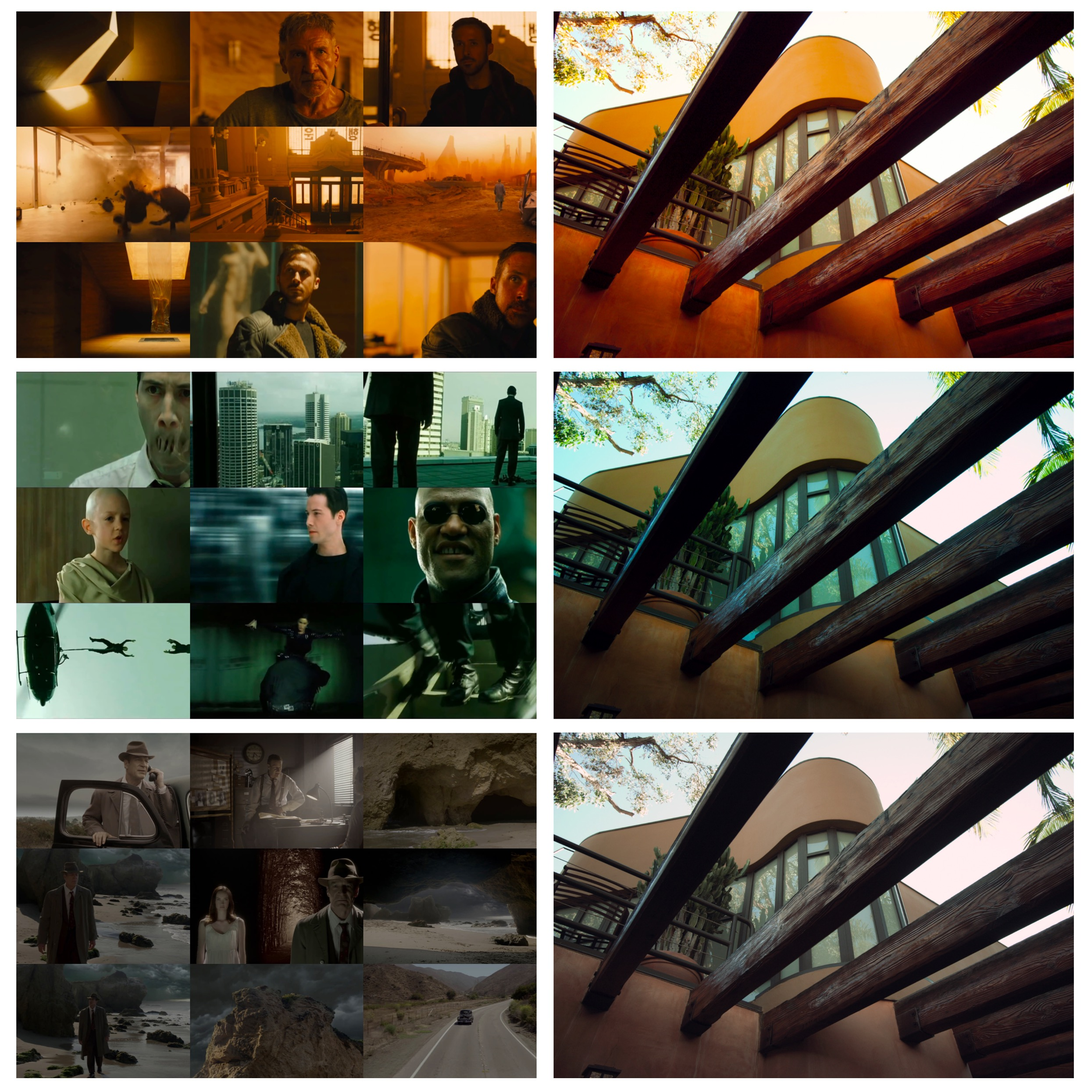
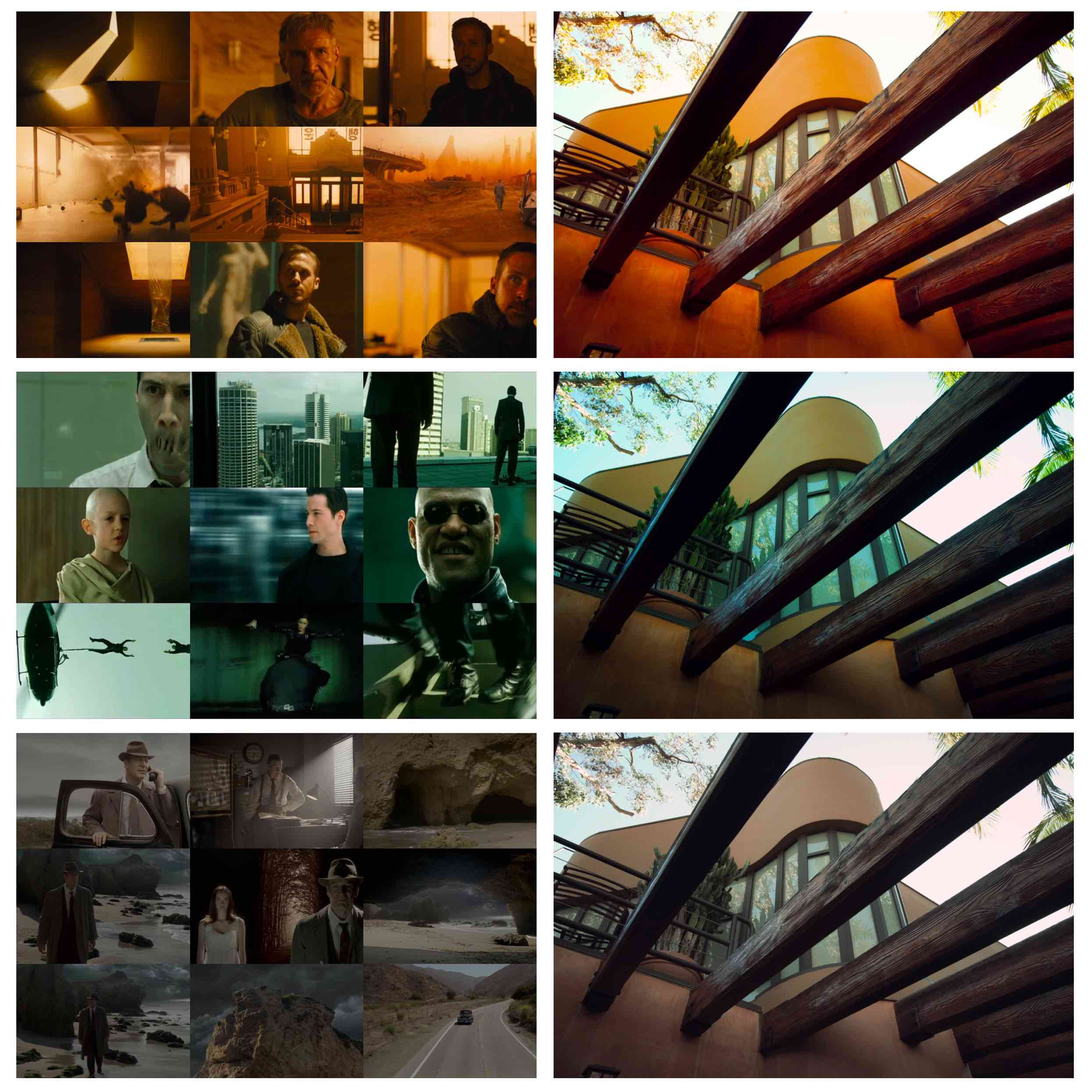
update projects compress photos

diff --git a/index.html b/index.html
@@ -45,9 +45,9 @@
         </h3>
       </ul>
       </p>
-      <span style="color:darkkhaki">News [03/2023]: Our work "DiffusionRig: Learning Personalized Priors for Facial
+      <!-- <span style="color:darkkhaki">News [03/2023]: Our work "DiffusionRig: Learning Personalized Priors for Facial
         Appearance Editing" has been accepted to CVPR 2023!
-        See y'all in Vancouver!</span>
+        See y'all in Vancouver!</span> -->
     </header>
 
     <!-- Nav -->
@@ -112,8 +112,20 @@
         </header>
         <ul class="features">
           <li>
+            <span class="image fit"><img src="images/diffusionrig_teaser.jpg" alt="" /></span>
+            <h3><b>DiffusionRig: Learning Personalized Priors for Facial Appearance Editing</b>&#8205;</h3>
+            <p>Z. Ding, C. Zhang, Z. Xia, <b>L. Jebe</b>, Z. Tu, X. Zhang</br>
+              <b><i>CVPR 2023</i></b>
+            </p>
+            <p>
+              <a href="https://diffusionrig.github.io/" target="_blank" rel="noopener noreferrer">project page</a>
+              &nbsp;| &nbsp;<a href="https://arxiv.org/abs/2304.06711" target="_blank"
+                rel="noopener noreferrer">arXiv</a>
+            </p>
+          </li>
+          <li>
             <span class="image fit"><img src="images/NeuralPhotoFinishing.jpg" alt="" /></span>
-            <h3><b>Neural Photo-Finishing</b></br>&#8205;</h3>
+            <h3><b></br>Neural Photo-Finishing</b></br>&#8205;</h3>
             <p>E. Tseng, Y. Zhang, <b>L. Jebe</b>, C. Zhang, Z. Xia, Y. Fan, F. Heide, J. Chen</br>
               <b><i>SIGGRAPH Asia 2022</i></b>
             </p>
@@ -126,7 +138,7 @@
           </li>
           <li>
             <span class="image fit"><img src="images/nlr_square.jpg" alt="" /></span>
-            <h3><b>Neural Lumigraph Rendering</b></br>&#8205;</h3>
+            <h3><b></br>Neural Lumigraph Rendering</b></br>&#8205;</h3>
             <p>P. Kellnhofer, <b>L. Jebe</b>, A. Jones, R. Spicer, K. Pulli, G. Wetzstein</br>
               <b><i>CVPR 2021 (best paper candidate)</i></b>
             </p>
@@ -136,18 +148,6 @@
                 target="_blank" rel="noopener noreferrer">arXiv</a> &nbsp;| &nbsp;<a
                 href="https://drive.google.com/file/d/1BBpIfrqwZNYmG1TiFljlCnwsmL2OUxNT/view?usp=sharing"
                 target="_blank" rel="noopener noreferrer">dataset</a>
-            </p>
-          </li>
-          <li>
-            <span class="image fit"><img src="images/ar2_square.jpg" alt="" /></span>
-            <h3><b>Augmented Reality in the Operating Room</b></h3>
-            <p>Registering surgical microscope images with a CT scan. In collaboration with <a
-                href="https://web.stanford.edu/~bgirod/" target="_blank" rel="noopener noreferrer"><b>Bernd
-                  Girod</b></a> and <a href="https://profiles.stanford.edu/nikolas-blevins" target="_blank"
-                rel="noopener noreferrer"><b>Nikolas Blevins</b></a>
-            </p>
-            <p><a href="assets/AR_in_the_OR.pptx" download target="_blank" rel="noopener noreferrer">pptx</a> &nbsp;|
-              &nbsp;<a href="assets/AR_in_the_OR_poster.pdf" target="_blank" rel="noopener noreferrer">poster</a>
             </p>
           </li>
         </ul>
@@ -166,13 +166,16 @@
         </header>
         <div class="box alt">
           <div class="row gtr-uniform">
-            <div class="col-12"><span class="image fit"><img src="images/gallery/waves_narrow.jpg" alt="" /></span>
+            <div class="col-12"><span class="image fit"><img src="images/gallery/waves_narrow_compressed.jpg"
+                  alt="" /></span>
             </div>
-            <div class="col-4"><span class="image fit"><img src="images/gallery/lars_lucy3_square.jpg" alt="" /></span>
+            <div class="col-4"><span class="image fit"><img src="images/gallery/lars_lucy3_square_compressed.jpg"
+                  alt="" /></span>
             </div>
             <div class="col-4"><span class="image fit"><img src="images/gallery/kitesurfing_square.jpg" alt="" /></span>
             </div>
-            <div class="col-4"><span class="image fit"><img src="images/gallery/kite_sunset.jpg" alt="" /></span></div>
+            <div class="col-4"><span class="image fit"><img src="images/gallery/kite_sunset_compressed.jpg"
+                  alt="" /></span></div>
           </div>
         </div>
         <footer class="major">
@@ -220,7 +223,7 @@
         </header>
         <div class="box alt">
           <div class="row gtr-uniform">
-            <div class="col-12"><span class="image fit"><img src="images/art/art.jpg" alt="" /></span>
+            <div class="col-12"><span class="image fit"><img src="images/art/art_compressed.jpg" alt="" /></span>
             </div>
           </div>
           <footer class="major">

diff --git a/projects.html b/projects.html
@@ -33,8 +33,20 @@
 			<section id="research" class="main special">
 				<ul class="features">
 					<li>
+						<span class="image fit"><img src="images/diffusionrig_teaser.jpg" alt="" /></span>
+						<h3><b>DiffusionRig: Learning Personalized Priors for Facial Appearance Editing</b>&#8205;</h3>
+						<p>Z. Ding, C. Zhang, Z. Xia, <b>L. Jebe</b>, Z. Tu, X. Zhang</br>
+							<b><i>CVPR 2023</i></b>
+						</p>
+						<p>
+							<a href="https://diffusionrig.github.io/" target="_blank" rel="noopener noreferrer">project page</a>
+							&nbsp;| &nbsp;<a href="https://arxiv.org/abs/2304.06711" target="_blank"
+								rel="noopener noreferrer">arXiv</a>
+						</p>
+					</li>
+					<li>
 						<span class="image fit"><img src="images/NeuralPhotoFinishing.jpg" alt="" /></span>
-						<h3><b>Neural Photo-Finishing</b></br>&#8205;</h3>
+						<h3><b></br>Neural Photo-Finishing</b></br>&#8205;</h3>
 						<p>E. Tseng, Y. Zhang, <b>L. Jebe</b>, C. Zhang, Z. Xia, Y. Fan, F. Heide, J. Chen</br>
 							<b><i>SIGGRAPH Asia 2022</i></b>
 						</p>
@@ -47,7 +59,7 @@
 					</li>
 					<li>
 						<span class="image fit"><img src="images/nlr_square.jpg" alt="" /></span>
-						<h3><b>Neural Lumigraph Rendering</b></br>&#8205;</h3>
+						<h3><b></br>Neural Lumigraph Rendering</b></br>&#8205;</h3>
 						<p>P. Kellnhofer, <b>L. Jebe</b>, A. Jones, R. Spicer, K. Pulli, G. Wetzstein</br>
 							<b><i>CVPR 2021 (best paper candidate)</i></b>
 						</p>
@@ -61,11 +73,11 @@
 					</li>
 					<li>
 						<span class="image fit"><img src="images/ar2_square.jpg" alt="" /></span>
-						<h3><b>Augmented Reality in the Operating Room</b></h3>
+						<h3><b>Augmented Reality in the Operating Room</b></br></br></h3>
 						<p>Registering surgical microscope images with a CT scan. In collaboration with <a
 								href="https://web.stanford.edu/~bgirod/" target="_blank" rel="noopener noreferrer"><b>Bernd
 									Girod</b></a> and <a href="https://profiles.stanford.edu/nikolas-blevins" target="_blank"
-								rel="noopener noreferrer"><b>Nikolas Blevins</b></a>
+								rel="noopener noreferrer"><b>Nikolas Blevins</b></br></br></a>
 						</p>
 						<p><a href="assets/AR_in_the_OR.pptx" download target="_blank" rel="noopener noreferrer">pptx</a> &nbsp;|
 							&nbsp;<a href="assets/AR_in_the_OR_poster.pdf" target="_blank" rel="noopener noreferrer">poster</a>
@@ -73,9 +85,9 @@
 					</li>
 					<li>
 						<span class="image fit"><img src="images/cs148_final_square.jpg" alt="" /></span>
-						<h3><b>CS 148 Raytracing</b></br>&#8205;</h3>
+						<h3><b>CS 148 Raytracing</b></br></br>&#8205;</h3>
 						<p>Introduction to Computer Graphics</br>
-							Stanford University</br>&#8205;
+							Stanford University</br></br>&#8205;
 						</p>
 						<p><a href="cs148_gallery.html">full image</a> &nbsp;|&nbsp;
 							<a href="assets/The_Incandescent_Duet.pdf" target="_blank" rel="noopener noreferrer">report</a>
@@ -83,10 +95,10 @@
 					</li>
 					<li>
 						<span class="image fit"><img src="images/rwth_2.jpg" alt="" /></span>
-						<h3><b>Online Phase Current and Voltage Offset Calibration using Inverter Voltage Distortion</b></br>&#8205;
+						<h3><b>Online Phase Current and Voltage Offset Calibration using Inverter Voltage Distortion</b>&#8205;
 						</h3>
 						<p>M. Schubert, <b>L. Jebe</b>, M. Gossen, R. W. De Doncker<br>
-							<b><i>IEEE PEDS 2017</i></b>
+							<b><i>IEEE PEDS 2017</i></b></br></br>
 
 						</p>
 						<p><a href="https://ieeexplore.ieee.org/abstract/document/8289267" target="_blank"

diff --git a/cs148_gallery.html b/cs148_gallery.html
@@ -30,7 +30,7 @@
 
 			<!-- Content -->
 			<section id="content" class="header">
-				<span class="image fit sharp"><img src="images/cs148_final.png" alt="" /></span>
+				<span class="image fit sharp"><img src="images/cs148_final.jpg" alt="" /></span>
 			</section>
 
 		</div>
